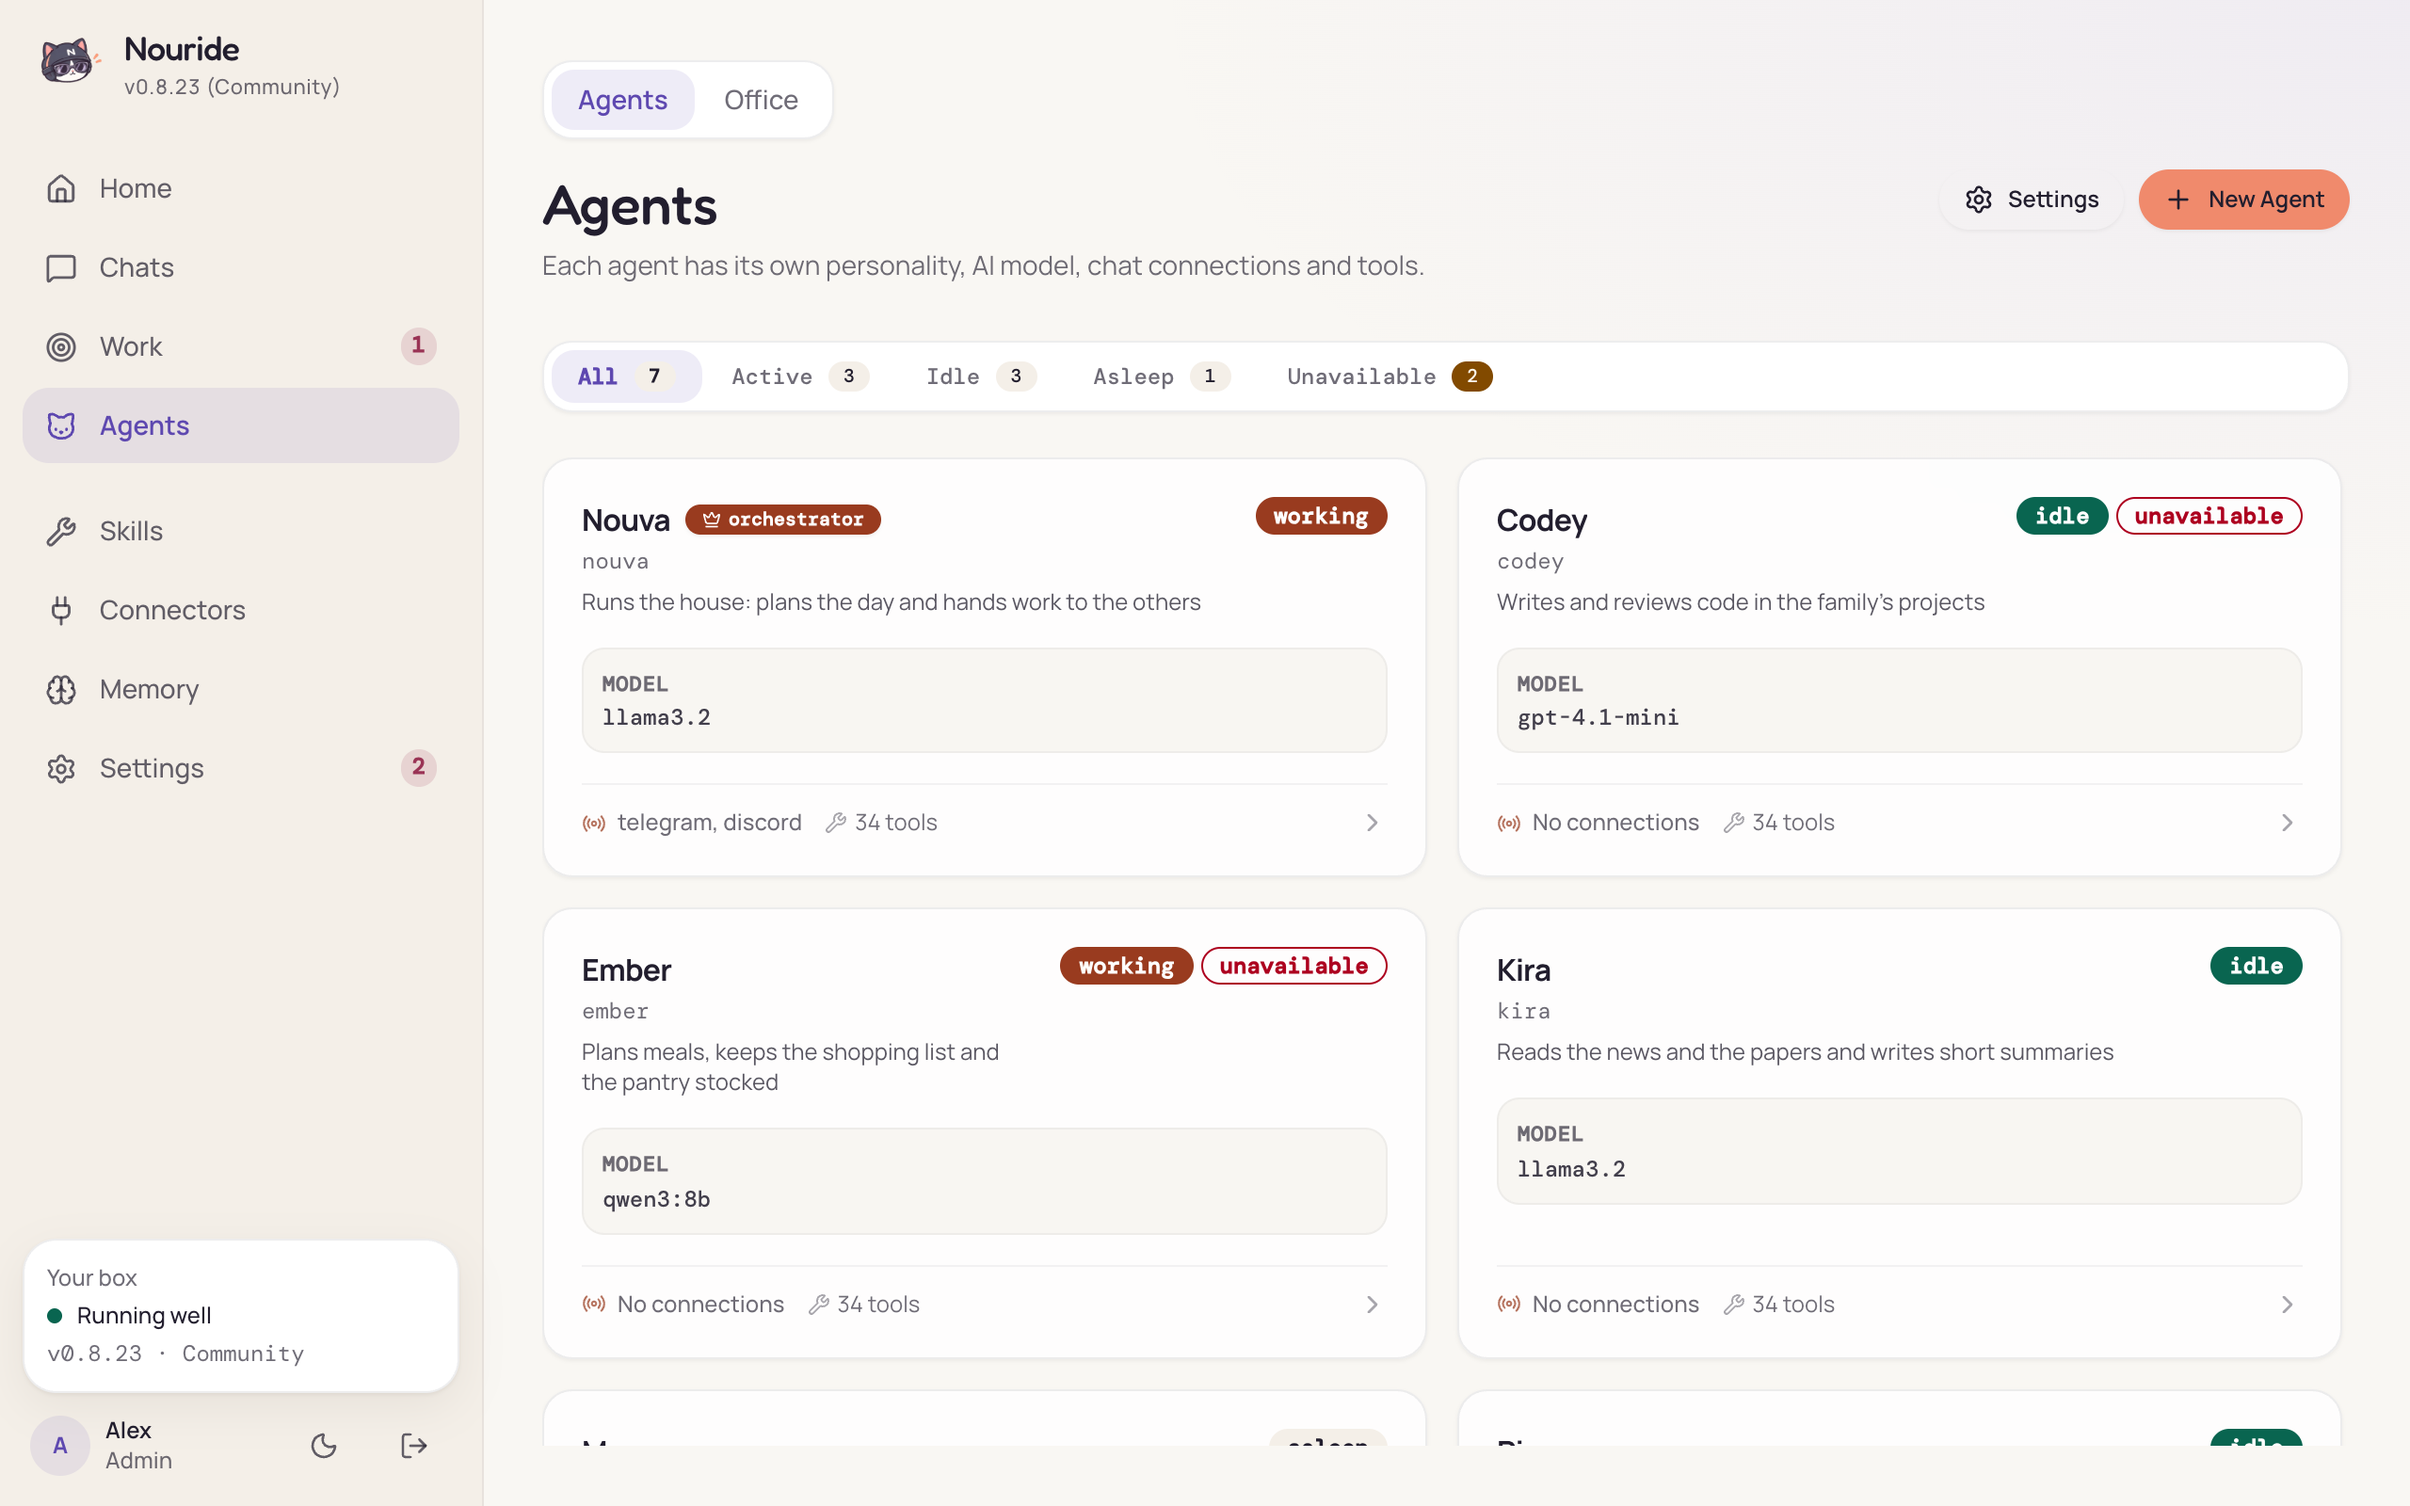
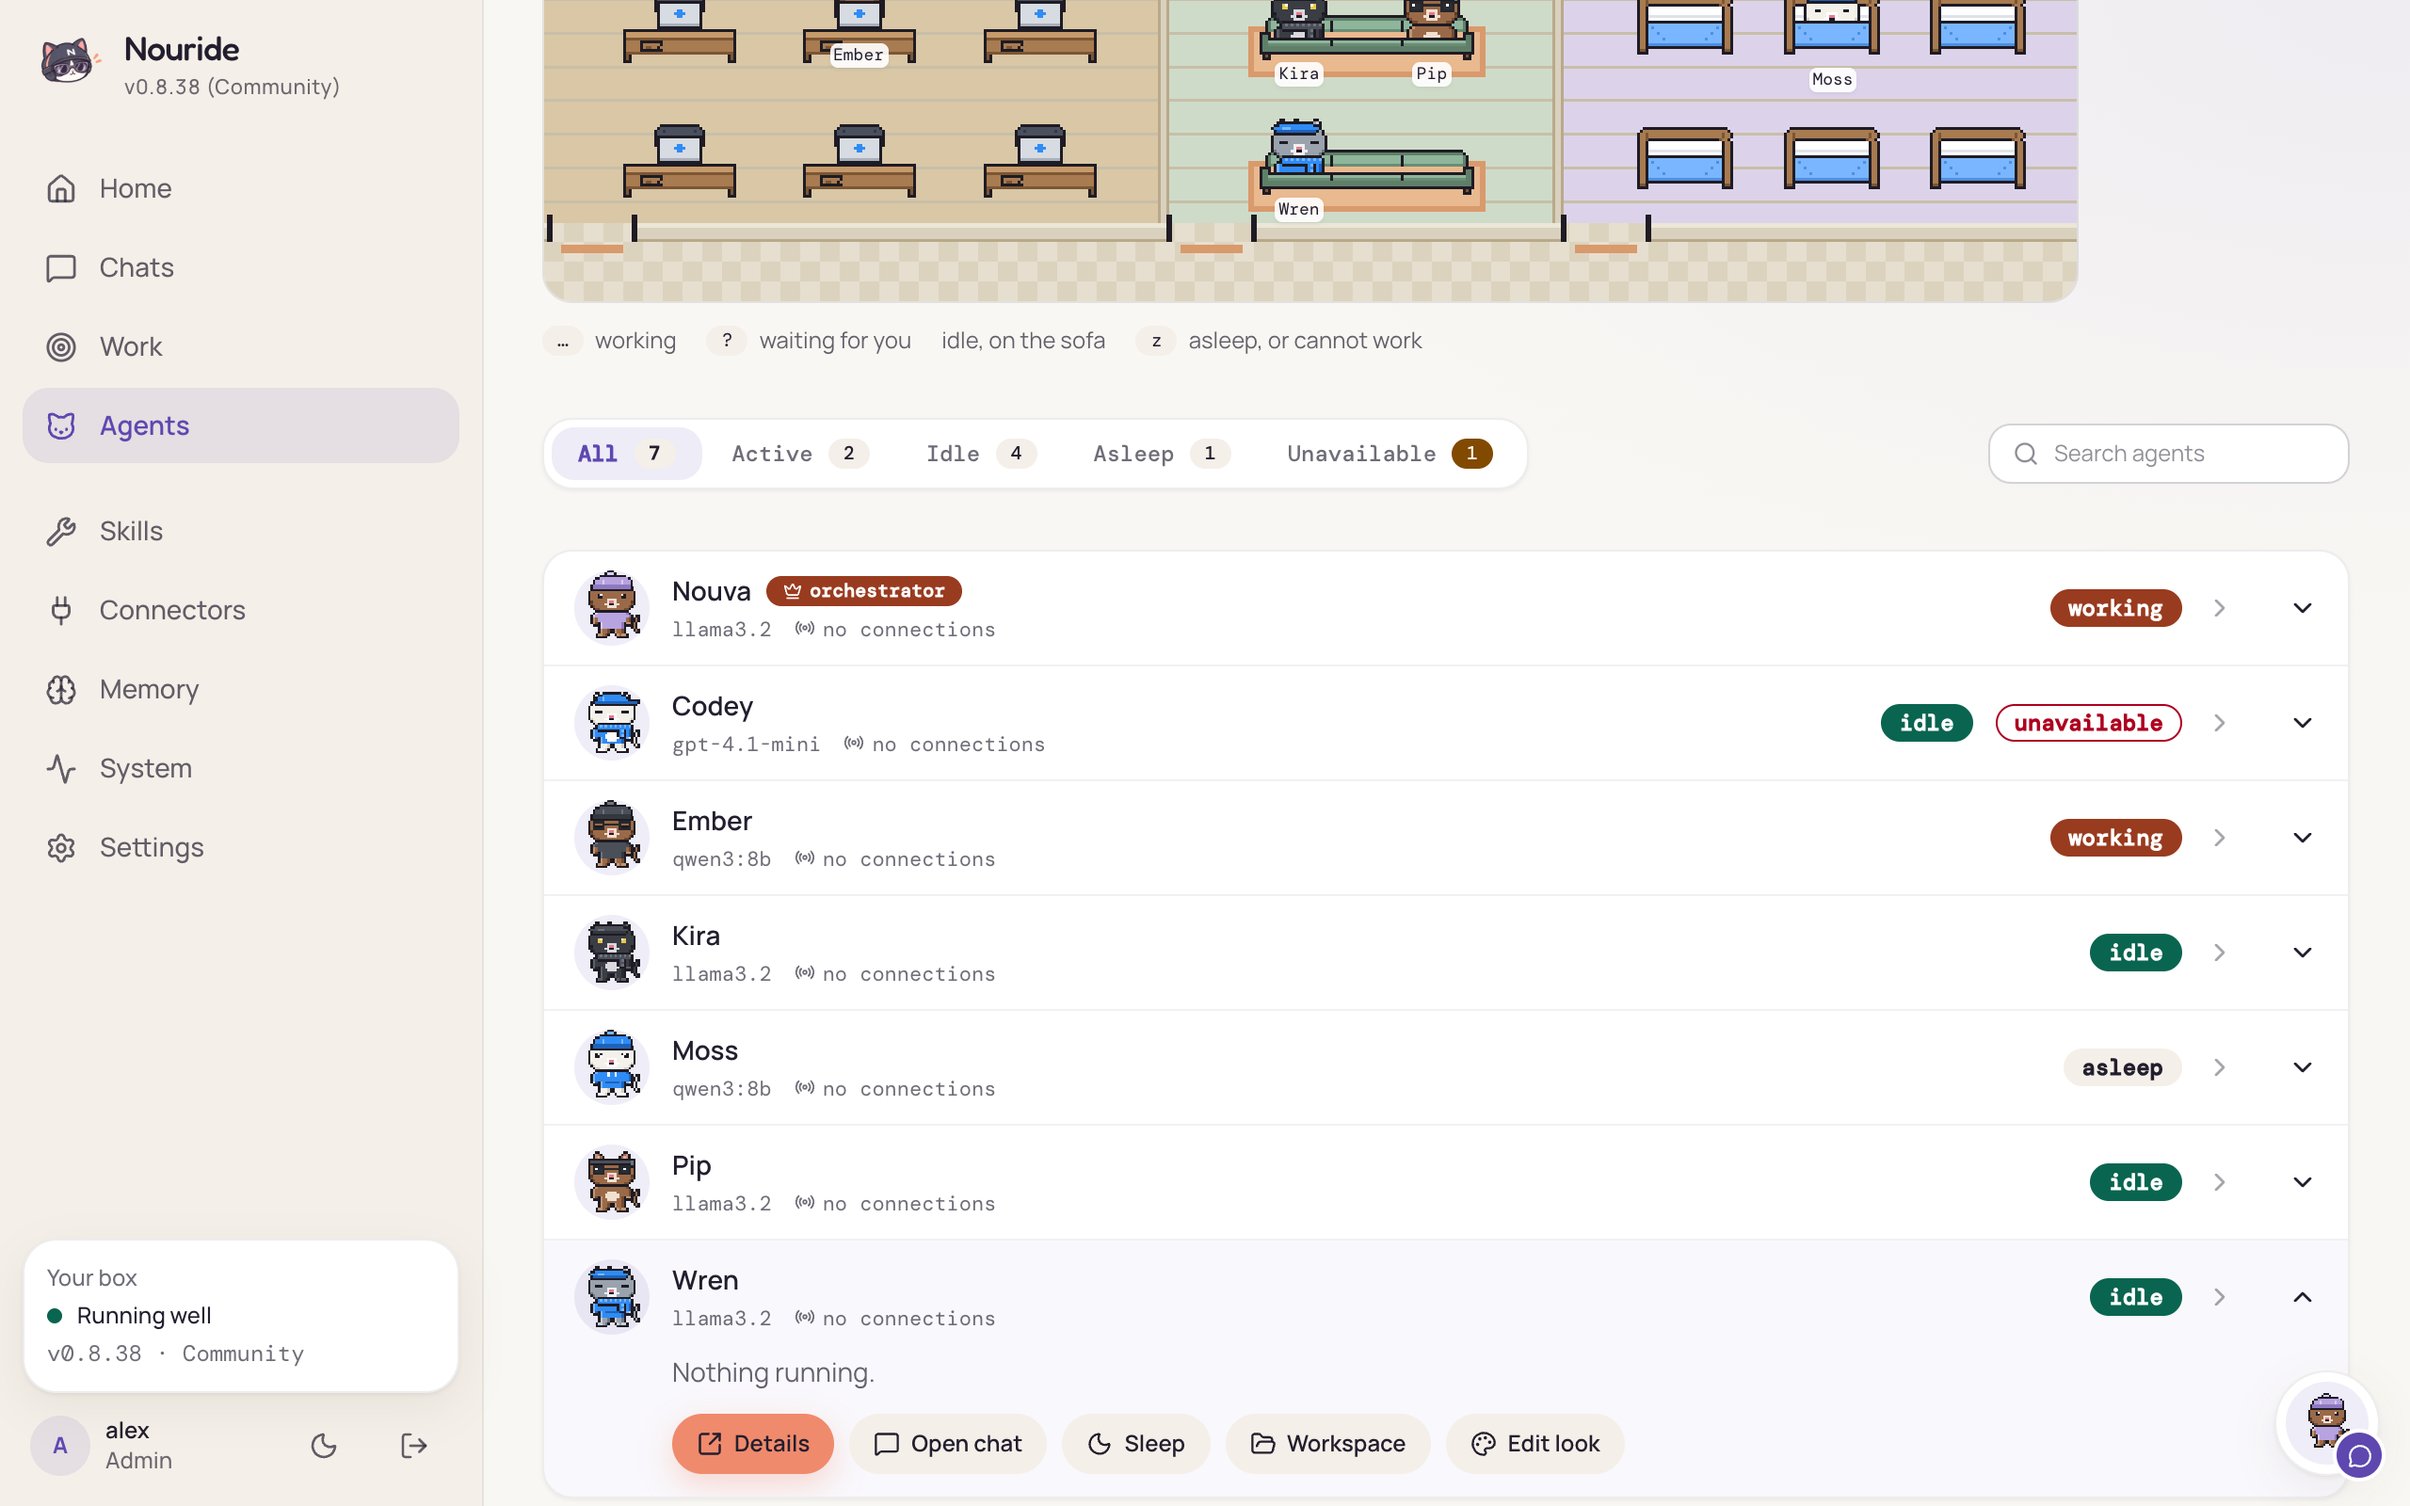
docs(site): the two pictures of Agents as it is now, from a sample install
`dashboard-agents.png` and `dashboard-office.png` showed the agents as
cards and the Office under a tab of its own. Both are taken again, same
names and size, in the day look, from a throwaway install of this branch
with a stand-in model and a sample household's agents (no one's real
data): Agents opening on the Office with two cats at work, three on the
sofa, one asleep and one that cannot work, and the list under it with one
agent's row opened. The words beside them say what they show, in English
and Indonesian, on the landing page too.

diff --git a/apps/site/src/content/docs/id/docs/manual/office.md b/apps/site/src/content/docs/id/docs/manual/office.md
@@ -8,7 +8,7 @@ sebagai kantor kecil pixel art, ruang kerja, lobi, dan kamar tidur, berjejer di 
 sofa sendiri, dan kasur sendiri (meja orchestrator sendirian di depan ruang kerja, dengan mahkota di namanya).
 Home menampilkan office yang sama, kecil dan diam, di **Your agents**, dengan tiap agent di sebelahnya sebagai chip.
 
-![Office: Nouva, sang orchestrator, dan Ember sedang kerja (Ember dengan tanda ! merah karena gak bisa kerja), Wren nunggu kamu, Kira dan Pip di sofa, Moss tidur, dan Codey di kasur karena gak bisa kerja](/media/dashboard-office.png)
+![Agents, dibuka dengan Office: Nouva, sang orchestrator, dan Ember sedang kerja, Kira, Pip, dan Wren di sofa, Moss tidur, dan Codey di kasur karena gak bisa kerja; di bawahnya filter dan baris-baris agent yang pertama](/media/dashboard-office.png)
 
 ## Di mana kucingnya
 

diff --git a/apps/site/src/content/docs/en/docs/manual/office.md b/apps/site/src/content/docs/en/docs/manual/office.md
@@ -8,7 +8,7 @@ office, a workroom, the lobby and a bedroom, side by side over a hall. Each agen
 bed (the orchestrator's desk alone at the front of the workroom, a crown by its name).
 Home shows the same office, small and still, under **Your agents**, with each agent beside it as a chip.
 
-![The Office: Nouva, the orchestrator, and Ember at work (Ember under a red ! because it cannot work), Wren waiting for you, Kira and Pip on the sofa, Moss asleep, and Codey in bed because it cannot work](/media/dashboard-office.png)
+![Agents, opening on the Office: Nouva, the orchestrator, and Ember at work, Kira, Pip and Wren on the sofa, Moss asleep, and Codey in bed because it cannot work; under it the filter and the first of the agents' rows](/media/dashboard-office.png)
 
 ## Where a cat is
 

diff --git a/apps/site/src/content/docs/en/docs/manual/dashboard.md b/apps/site/src/content/docs/en/docs/manual/dashboard.md
@@ -252,7 +252,7 @@ row's end, or a click on its cat in the Office, opens what you do with it withou
 **Open chat**, **Sleep** or **Wake**, **Workspace** for an admin, **Edit look**. A filter over the list narrows it to
 the agents that are active, idle, asleep or unavailable.
 
-![The agents list](/media/dashboard-agents.png)
+![The agents as rows under the Office, with Wren's row opened: Details, Open chat, Sleep, Workspace, Edit look](/media/dashboard-agents.png)
 
 ### Model versus Models
 

diff --git a/apps/site/src/content/docs/id/docs/manual/dashboard.md b/apps/site/src/content/docs/id/docs/manual/dashboard.md
@@ -261,7 +261,7 @@ kamu lakukan dengannya tanpa meninggalkan daftar: **Details**, **Open chat**, **
 untuk admin, dan **Edit look**. Filter di atas daftar menyaringnya ke agent yang aktif, santai, tidur, atau gak bisa
 kerja.
 
-![Daftar agent](/media/dashboard-agents.png)
+![Para agent sebagai baris di bawah Office, dengan baris Wren terbuka: Details, Open chat, Sleep, Workspace, Edit look](/media/dashboard-agents.png)
 
 ### Model versus Models
 
